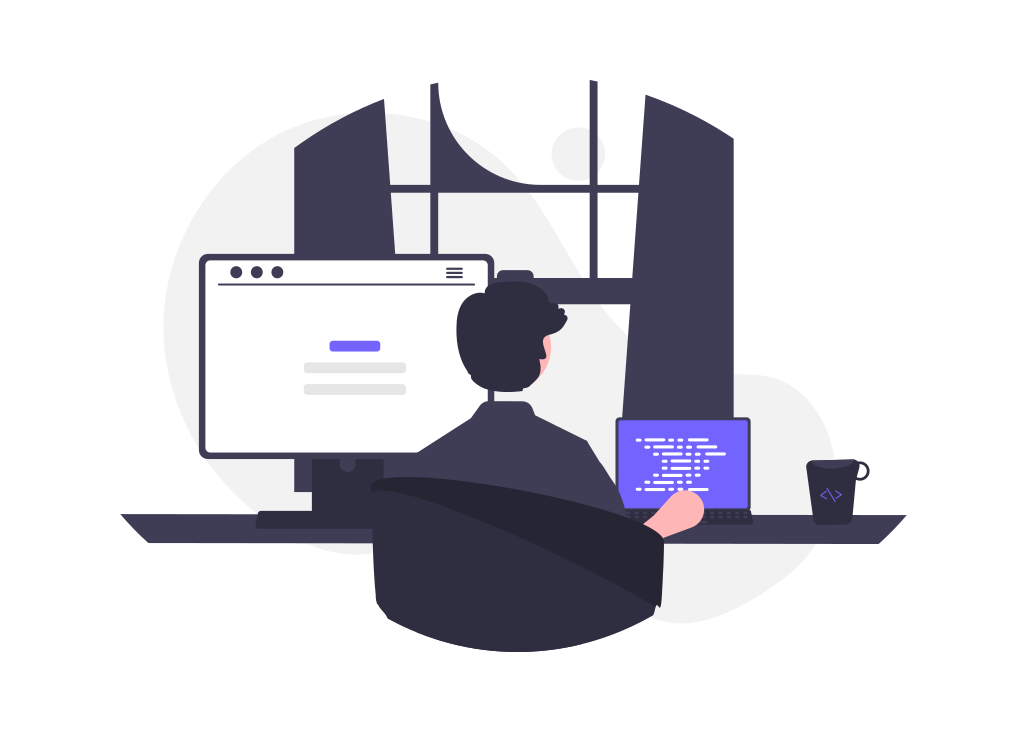
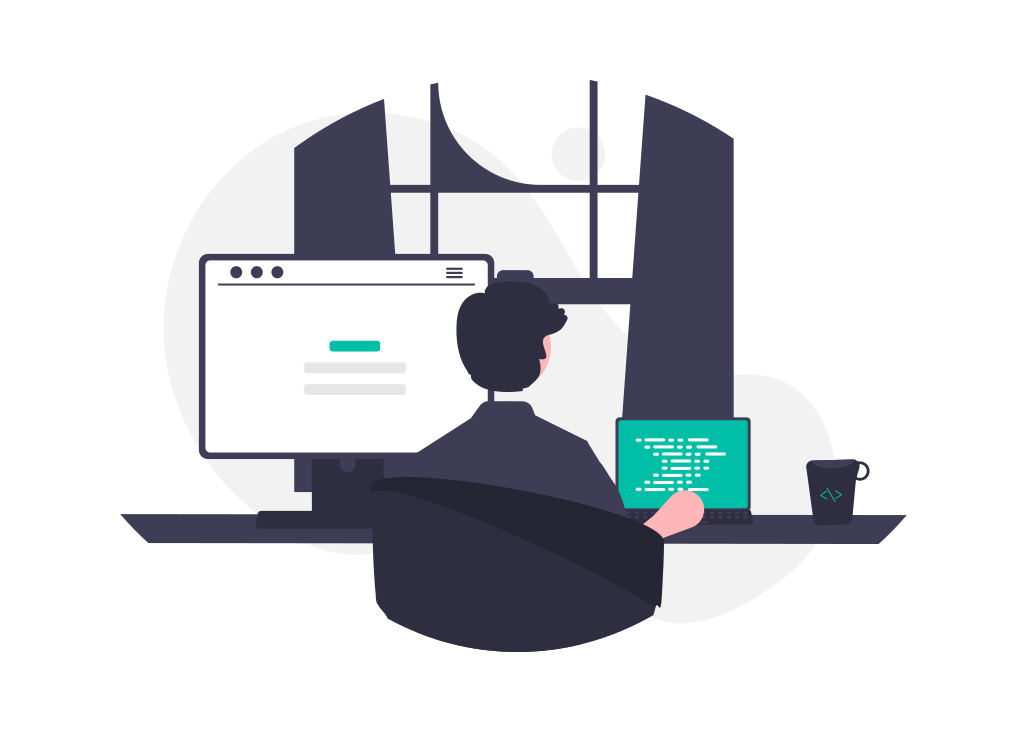
Partie du composant TutorielFeed du Home

Changed region(s): [[0.592, 0.571, 0.7478, 0.7213], [0.3116, 0.4508, 0.3739, 0.4809]]

diff --git a/src/components/tutorielFeed/TutorielFeed.jsx b/src/components/tutorielFeed/TutorielFeed.jsx
@@ -1,0 +1,48 @@
+import { Box, Stack, Typography,Tab } from '@mui/material'
+import {TabContext,TabList}   from '@mui/lab'
+import './TutorielFeed.css'
+import { useState } from 'react';
+import TutoFeedParts from '../tutoFeedParts/TutoFeedParts';
+
+import LearningImg from '../../assets/images/learning_sketching.png'
+import ProgrammingImg from '../../assets/images/Programming.png'
+
+
+const TutorielFeed = () => {
+    const [value, setValue] = useState('1');
+
+  const handleChange = (event, newValue) => {
+    setValue(newValue);
+  };
+
+  return (
+    <Box className='tutorielFeed'>
+        <Stack sx={{width:"70%", justifyContent:'center'}} direction={'column'}>
+            <Typography variant='h4' className='title'>
+                <span>Apprendre grâce à</span>  <br />
+                <span>des tutoriels gratuits de découverte des technos et des pratiques sur ces dernières </span>
+            </Typography>
+            <Box sx={{ width: '100%', typography: 'body1' }} mt={4}>
+                <TabContext value={value}>
+                    <Box sx={{ borderBottom: 1, borderColor: 'divider',textAlign:'center' }}>
+                        <TabList onChange={handleChange} aria-label="lab API tabs example" sx={{textAlign:'center'}}>
+                            <Tab label="Vidéos de formations gratuits" value="1" />
+                            <Tab label="Vidéos pratiques gratuites" value="2"  />
+                        </TabList>
+                    </Box>
+                    <TutoFeedParts value={1} image={ProgrammingImg} description={`
+                       Nous mettons à votre disposition des formations gratuites pour apprendre de A à Z des nouvelles technologies 
+                       et langages ou pour découvrir des nouvels outils ? 
+                    `} />
+                    <TutoFeedParts value={2} image={LearningImg} description={`
+                        Vous cherchez une formation complète pour apprendre de A à Z ou une vidéo pour découvrir un nouvel outil ? Vous devriez trouver votre bonheur
+                    `} />
+
+                </TabContext>
+            </Box>
+        </Stack>
+    </Box>
+  )
+}
+
+export default TutorielFeed

diff --git a/src/components/tutoFeedParts/TutoFeedParts.jsx b/src/components/tutoFeedParts/TutoFeedParts.jsx
@@ -1,0 +1,32 @@
+import { TabPanel } from '@mui/lab'
+import { Box, Button, Stack } from '@mui/material'
+import './TutofeedParts.css'
+import { Link } from 'react-router-dom'
+
+
+const TutoFeedParts = ({description, image, value}) => {
+  return (
+    <>
+        <TabPanel value={`${value}`}>
+            <Stack direction={'row'} gap={2} className='tutoFeedPart'>
+                <Box>
+                    <span className='description'>{description}</span> <br />
+                    <Link to={"/premium"} color="inherit">
+                        <Button variant="contained" className="btnFirst" sx={{
+                                padding:"15px 60px",margin: "20px 0"}} >
+                            Accès Immédiat et Gratuit
+                        </Button>
+                    </Link >
+                </Box>
+                <Box>
+                <div className="image">
+                    <img src={image} alt="representation" />
+                </div>
+                </Box>
+            </Stack>
+        </TabPanel>
+    </>
+  )
+}
+
+export default TutoFeedParts

diff --git a/src/components/tutoFeedParts/TutofeedParts.css b/src/components/tutoFeedParts/TutofeedParts.css
@@ -1,0 +1,46 @@
+.tutoFeedPart{
+    display: flex !important;
+    width: 100%;
+    justify-content: space-between;
+    align-items: center;
+    padding: 0 !important;
+    margin: 0 !important;
+}
+/* 
+    MuiBox-root
+    MuiTabs-root
+    css-8je8zh-MuiTouchRipple-root 
+    MuiTouchRipple-root 
+    MuiTabs-indicator 
+    css-1aquho2-MuiTabs-indicator
+*/
+.MuiButtonBase-root.Mui-selected{
+    color: #108643 !important;
+}
+span.MuiTabs-indicator.css-1aquho2-MuiTabs-indicator  {
+    background-color: #108643 !important;
+}
+
+.MuiTab-root {
+    color: #863b10 !important;
+    font-size: 16px !important;
+}
+
+
+.tutoFeedPart .image{
+    width: 100%;
+    margin-right: 0;
+    padding-right: 0;
+}
+.tutoFeedPart .image img{
+    width: 100%;
+    height: 100%;
+    background-position: center;
+    background-size: cover;
+    overflow: hidden;
+}
+
+.tutoFeedPart .description{
+    font-size: 22px;
+    color: var(--paragraphColor);
+}

diff --git a/src/components/quickPremium/QuickPremium.jsx b/src/components/quickPremium/QuickPremium.jsx
@@ -28,8 +28,8 @@ const QuickPremium = () => {
             <Box>
                 <Typography variant='h4'>Devenir premium</Typography>
                 <p>Devenir premium sur Ronasdev, c'est soutenir la création de nouveaux contenus 
-                    chaque semaine et accéder à du contenu exclusif pour apprendre et 
-                    s'améliorer (comme le téléchargement des vidéos et des sources).
+                    chaque semaine, rejoindre nos canaux de partages privés et accéder à du contenu exclusif pour apprendre et 
+                    s'améliorer (comme le téléchargement des vidéos et des sources, accès à des contenus exclusifs et aux codes de nos projets).
                 </p>
             </Box>
             <Stack direction='column' > 

diff --git a/src/index.css b/src/index.css
@@ -1,8 +1,9 @@
 :root{
   --topbarColor: #108643;
   --bgolor:rgb(0, 255, 157);
-  --buttonHover: background: linear-gradient(90deg, rgba(242,237,237,1) 0%, rgba(223,221,221,1) 6%, rgba(180,237,206,1) 100%);
-  --textColor: #271033
+  --buttonHover: linear-gradient(90deg, rgba(242,237,237,1) 0%, rgba(223,221,221,1) 6%, rgba(180,237,206,1) 100%);
+  --textColor: #271033;
+  --paragraphColor: grey;
 }
 body {
   margin: 0;
@@ -30,6 +31,7 @@ h4{
   word-wrap: none;
   font-size: 20px !important;
   transition: ease-in all 0.3s;
+  white-space: nowrap;
 }
 
 .btnFirst:hover{

diff --git a/src/pages/home/Home.jsx b/src/pages/home/Home.jsx
@@ -3,12 +3,14 @@ import  './Home.css'
 import Banner from '../../components/banner/Banner'
 import Feed from '../../components/feed/Feed'
 import QuickPremium from '../../components/quickPremium/QuickPremium'
+import TutorielFeed from '../../components/tutorielFeed/TutorielFeed'
 const Home = () => {
   return (
     <div className='home'>
         <Banner/>
         <Feed/>
         <QuickPremium/>
+        <TutorielFeed/>
     </div>
   )
 }

diff --git a/src/components/tutorielFeed/TutorielFeed.css b/src/components/tutorielFeed/TutorielFeed.css
@@ -1,0 +1,14 @@
+.tutorielFeed{
+    display: flex;
+    justify-content: center;
+    align-items: center;
+    padding:30px 0;
+    width: 100%;
+}
+.title{
+    text-align: center;
+}
+.tutorielFeed .title span:last-of-type{
+    color: #108643 !important;
+   
+}

diff --git a/src/components/banner/Banner.jsx b/src/components/banner/Banner.jsx
@@ -9,6 +9,7 @@ const TutoButton = styled(Button)({
     color: '#0F2027',
     fontSize: "20px",
     padding:"15px 20px",
+    whiteSpace:'nowrap',
     transition:"ease-in all 0.3s",
     '&:hover':{
         borderColor: '#f9f9f9',
